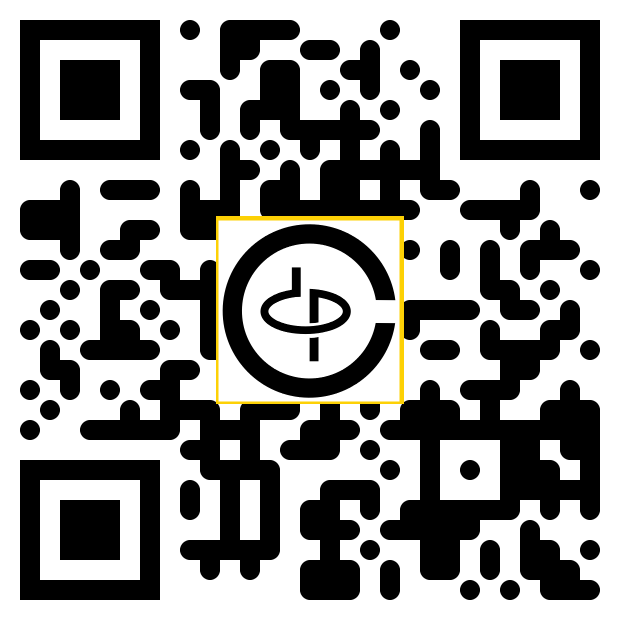
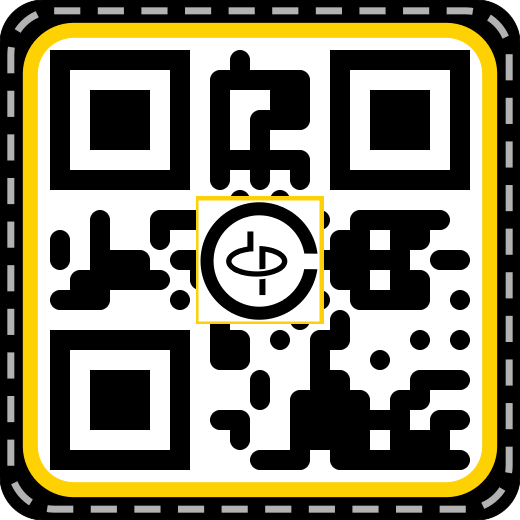
Added backgroung

diff --git a/generator.py b/generator.py
@@ -6,26 +6,40 @@ import qrcode.image.svg
 from qrcode.image.styledpil import StyledPilImage
 from qrcode.image.styles.moduledrawers import RoundedModuleDrawer
 
-#settings
-distor_amount=0.3
-code_pixel_size=20
-qr_border_size=1
-code_color='black'
-backgroud_color='white'
+# settings
+dist_amount = 0.3
+code_pixel_size = 20
+qr_border_size = 0
+code_color = 'black'
+backgroud_color = 'white'
+back_const = 1.24
 
-#Рендер логотипа
-def render_logo(code_with,code_height):
-    width_logo = int(code_with * distor_amount)
-    height_logo = int(code_height * distor_amount)
+
+# Рендер логотипа
+def render_logo(code_with, code_height):
+    width_logo = int(code_with * dist_amount)
+    height_logo = int(code_height * dist_amount)
     drawing = svg2rlg("logophysics.svg")
     drawing.scale(width_logo / drawing.width, height_logo / drawing.height)
-    drawing.height = height_logo+code_pixel_size//10
-    drawing.width = width_logo+code_pixel_size//10
-    renderPM.drawToFile(drawing, "logo_rastr.png", fmt="PNG")
+    drawing.height = height_logo + code_pixel_size // 10
+    drawing.width = width_logo + code_pixel_size // 10
+    renderPM.drawToFile(drawing, "temp/logo_rastr.png", fmt="PNG")
 
-inp=input()
 
-#Creating QR
+# Рендер задника
+def render_back(code_with, code_height):
+    with_back = int(code_with * back_const)
+    height_back = int(code_height * back_const)
+    backgr = svg2rlg('back.svg')
+    backgr.scale(with_back / backgr.width, height_back / backgr.height)
+    backgr.height = height_back
+    backgr.width = with_back
+    renderPM.drawToFile(backgr, "temp/back_rast.png", fmt='PNG')
+
+
+inp = input()
+
+# Creating QR
 PhyQR = qrcode.QRCode(
     error_correction=qrcode.constants.ERROR_CORRECT_H,
     border=qr_border_size,
@@ -34,18 +48,22 @@ PhyQR = qrcode.QRCode(
 PhyQR.add_data(inp)
 PhyQR.make()
 img_PhyQR = PhyQR.make_image(image_factory=StyledPilImage, module_drawer=RoundedModuleDrawer()).convert('RGB')
-render_logo(img_PhyQR.size[0],img_PhyQR.size[1])
+render_logo(img_PhyQR.size[0], img_PhyQR.size[1])
 
-#Pasting logo to QR
-logo=Image.open("logo_rastr.png")
+# Pasting logo to QR
+logo = Image.open("temp/logo_rastr.png")
 pos = ((img_PhyQR.size[0] - logo.size[0]) // 2, (img_PhyQR.size[1] - logo.size[1]) // 2)
 img_PhyQR.paste(logo, pos)
+# img_PhyQR.save('QR.png')
 
-img_PhyQR.save('QR.png')
+# Pasting background to QR
+render_back(img_PhyQR.size[0], img_PhyQR.size[1])
+back = Image.open('temp/back_rast.png')
+pos2 = ((back.size[0] - img_PhyQR.size[0]) // 2, (back.size[1] - img_PhyQR.size[1]) // 2)
+back.paste(img_PhyQR, pos2)
+back.save('QR.png')
 
-
-
-#Метод создания svg QR-кода
+# Метод создания svg QR-кода
 # qrvec=qrcode.QRCode(
 #     error_correction=qrcode.constants.ERROR_CORRECT_H,
 #     border=1
@@ -55,4 +73,3 @@ img_PhyQR.save('QR.png')
 # qrvec.make(fit=True)
 # svgqr=qrvec.make_image(image_factory=qrcode.image.svg.SvgImage)
 # svgqr.save('testing.svg')
-
